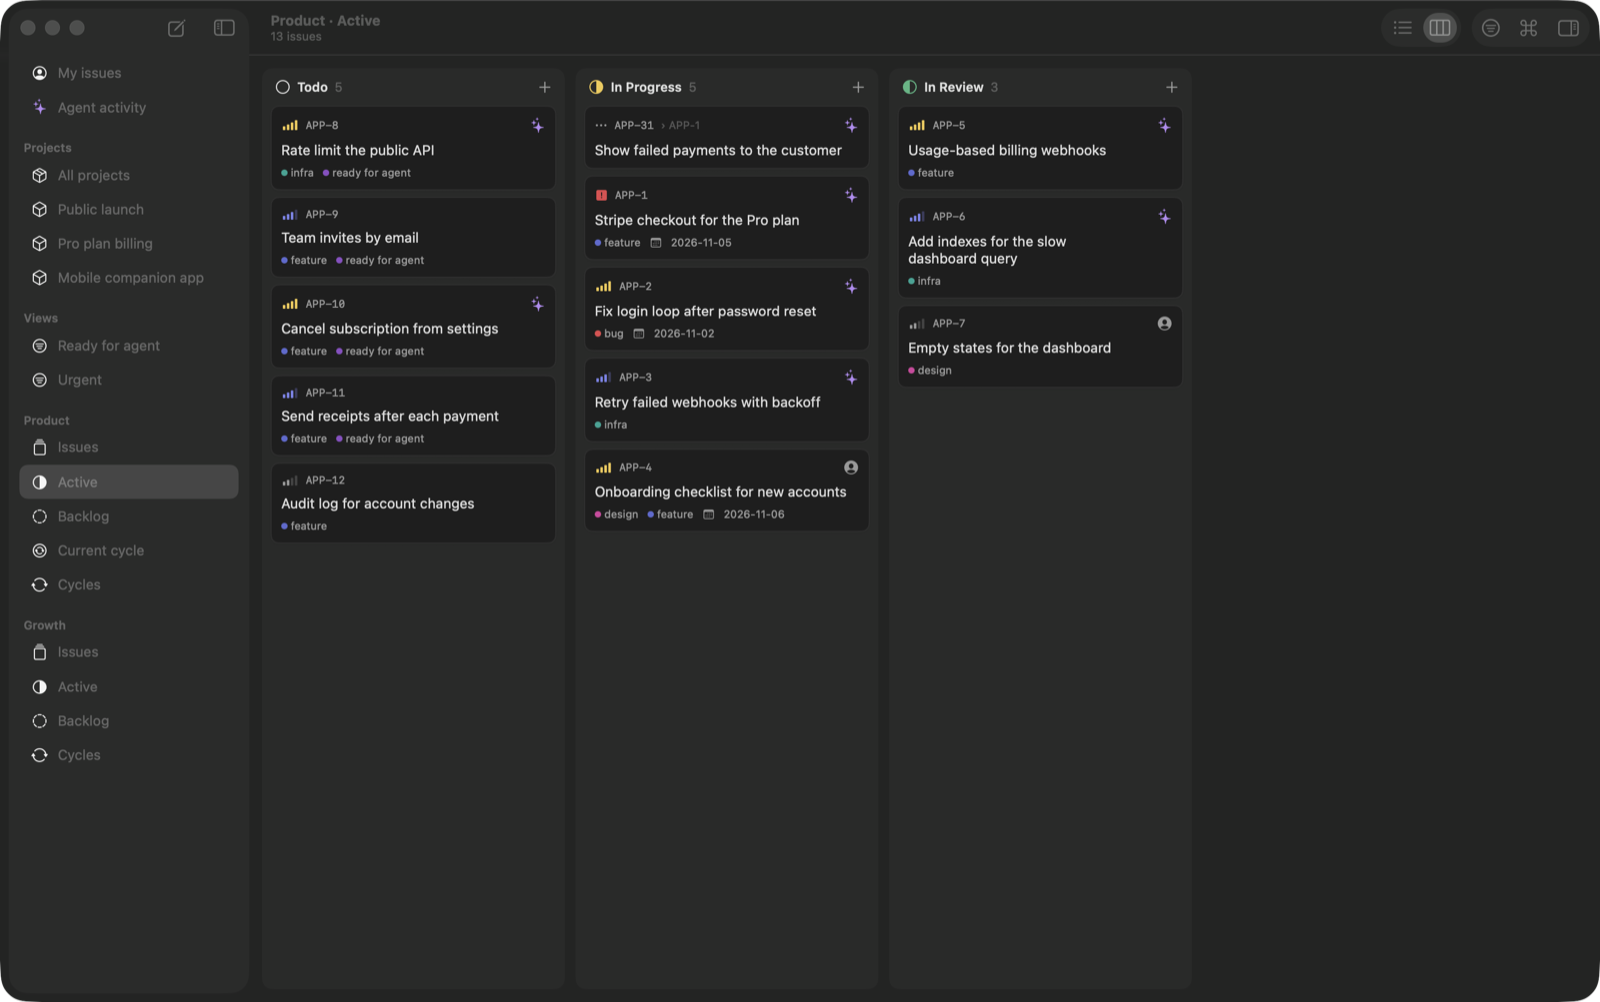
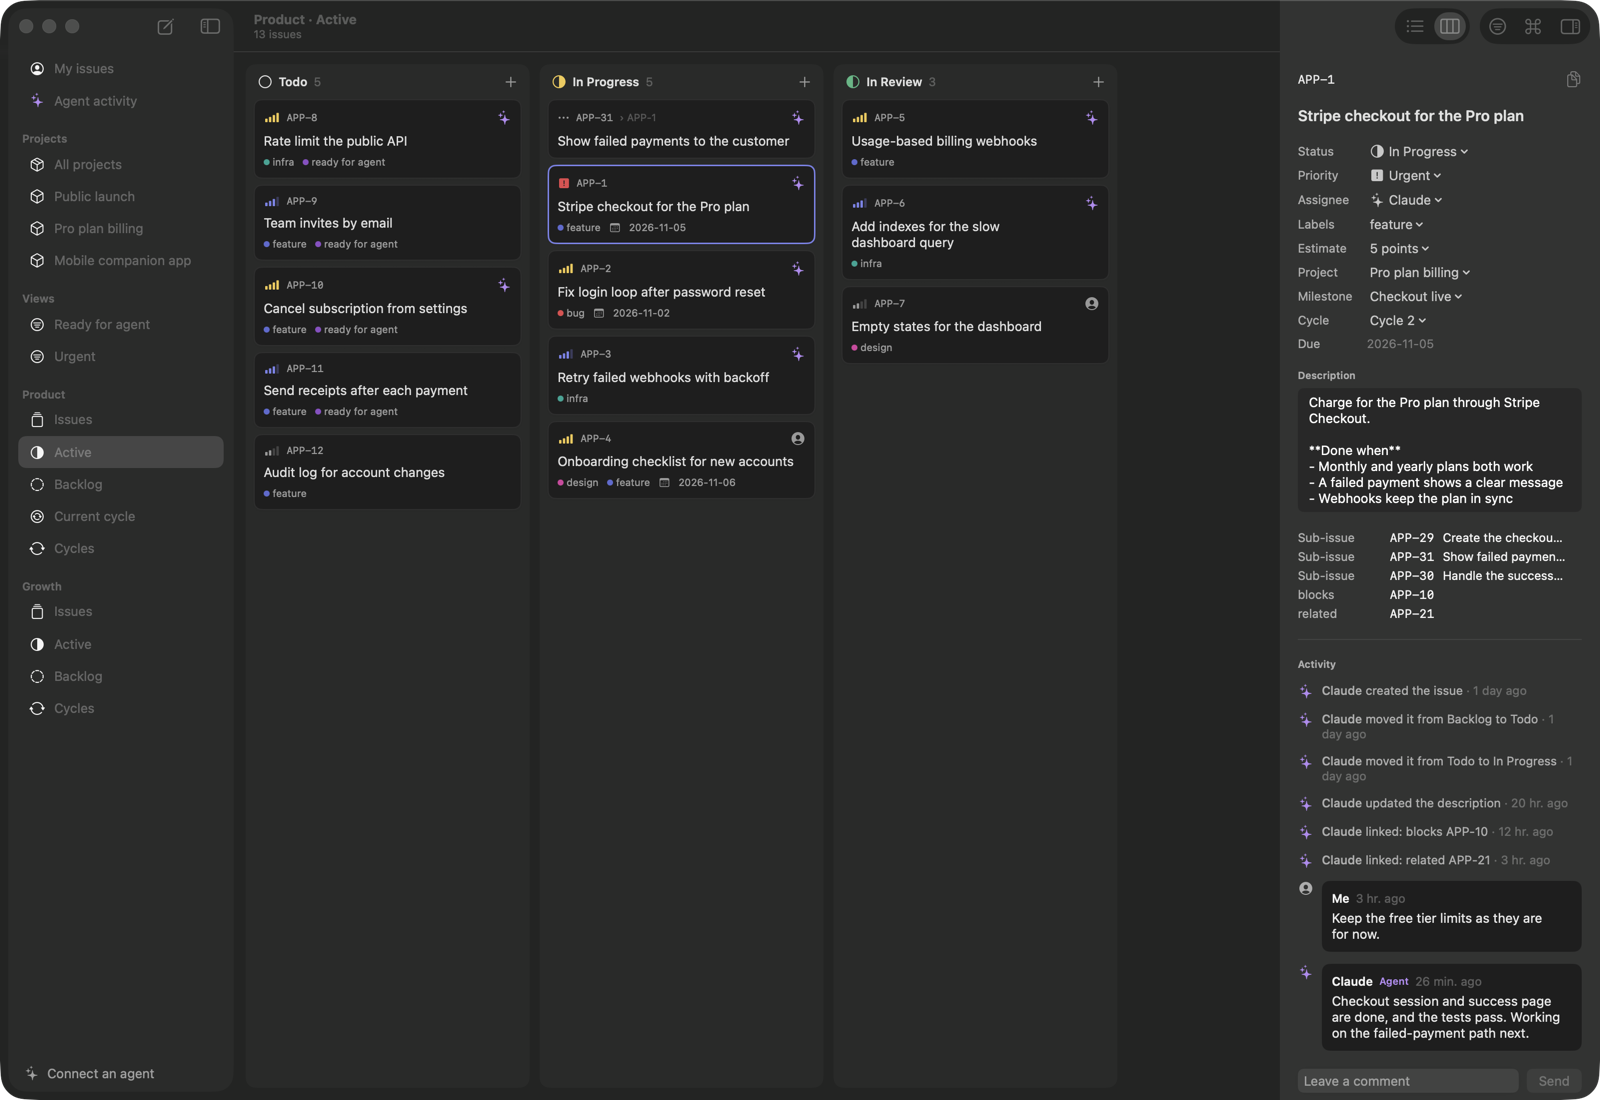
chore: release 0.1.1 with new README screenshots
Retake the screenshots with a task open so the board and details panel show
together, add the Connect an agent sheet, and bump the version.

diff --git a/Sources/TrackaroMCP/TrackaroMCPServer.swift b/Sources/TrackaroMCP/TrackaroMCPServer.swift
@@ -4,7 +4,7 @@ import TrackaroCore
 
 /// The Trackaro MCP server: tools, resources and prompts over any MCP transport.
 public enum TrackaroMCPServer {
-    public static let version = "0.1.0"
+    public static let version = "0.1.1"
 
     public struct Options: Sendable {
         /// Hide every tool that writes. The server can still read everything.

diff --git a/README.md b/README.md
@@ -21,7 +21,7 @@ No account, no server, no cloud. Just one SQLite file on your Mac.
 
 <picture>
   <source media="(prefers-color-scheme: dark)" srcset="docs/images/hero-dark.png">
-  <img src="docs/images/hero-light.png" alt="Trackaro board showing the issues Claude and the founder are working on" width="900">
+  <img src="docs/images/hero-light.png" alt="Trackaro board with a task open in the details panel, showing its sub-issues, Claude's activity and comments" width="900">
 </picture>
 
 </div>
@@ -64,7 +64,7 @@ server:
 
 ## Install
 
-You need macOS 14 or later. [Download the latest `.dmg`](https://github.com/tecbay/trakaro/releases/latest/download/Trackaro-0.1.0.dmg)
+You need macOS 14 or later. [Download the latest `.dmg`](https://github.com/tecbay/trakaro/releases/latest/download/Trackaro-0.1.1.dmg)
 and drag Trackaro to Applications.
 
 The download isn't notarized yet, so macOS blocks it on first open. Allow it under **System Settings → Privacy &
@@ -91,7 +91,7 @@ scripts/make-dmg.sh
 ```
 
 ```bash
-open dist/Trackaro-0.1.0.dmg
+open dist/Trackaro-0.1.1.dmg
 ```
 
 Drag Trackaro to Applications. The app is a universal binary for Apple Silicon and Intel, and the MCP server is
@@ -106,6 +106,10 @@ bundled inside it.
 
 Click **Connect an agent** at the bottom of the sidebar, then **Connect** next to your tool. It also works from the
 `⌘K` palette.
+
+<p align="center">
+  <img src="docs/images/connect.png" alt="Connect an agent sheet listing Claude Code, Claude Desktop, Cursor and VS Code with their connection status" width="520">
+</p>
 
 | Tool | What the button does |
 | --- | --- |
@@ -191,6 +195,7 @@ What makes them pleasant for an agent:
 
 <p align="center"><sub>Screenshots use made-up demo data.</sub></p>
 
+- **One-click agent setup:** connect Claude Code, Claude Desktop, Cursor or VS Code from inside the app.
 - **Issues:** sub-issues, labels, relations, comments, estimates, due dates and a full activity history.
 - **Board and list:** `⌘B` switches views. Drag cards between columns and watch them animate when an agent moves them.
 - **Keyboard first:** `⌘K` command palette, `S` `P` `A` `L` pickers, `g` chords, multi-select, and `?` for every shortcut.
@@ -229,7 +234,7 @@ The core, MCP server and UI logic are plain Swift packages with tests, and the S
 when testing by hand so your real tasks stay untouched.
 
 > [!WARNING]
-> Trackaro is at an early stage (0.1.0), and schema upgrades between versions aren't guaranteed yet. Keep a backup of
+> Trackaro is at an early stage (0.1.1), and schema upgrades between versions aren't guaranteed yet. Keep a backup of
 > your database.
 
 ## Roadmap
